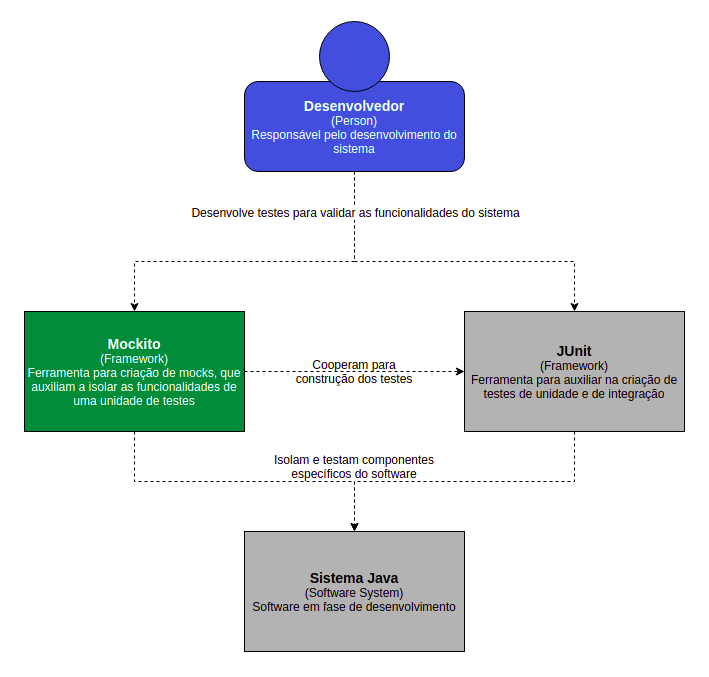
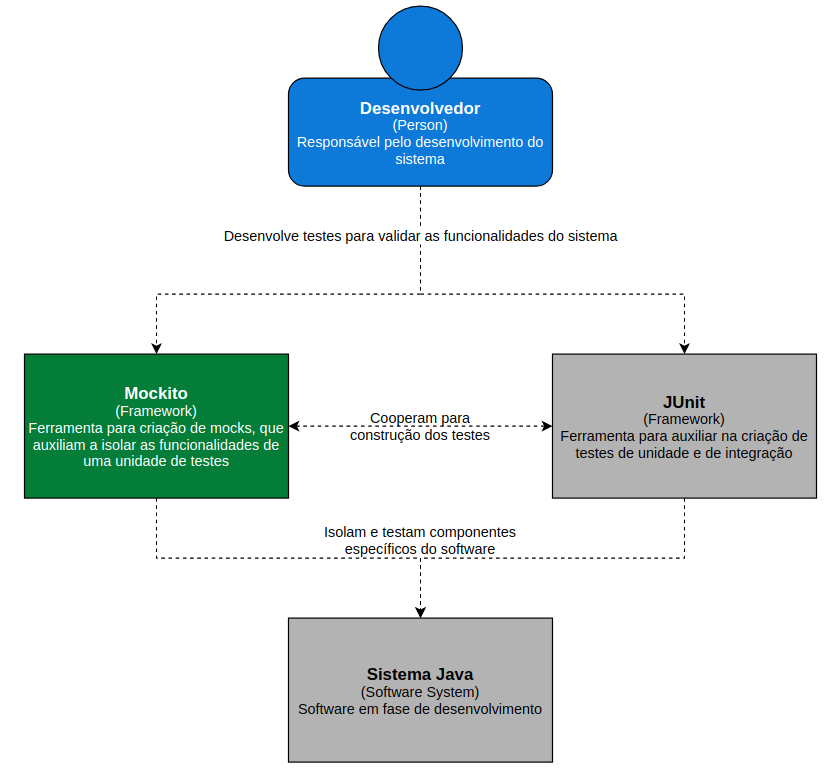
Construcao do diagrama de containers e complemento do contexto

diff --git a/content/posts/mockito.md b/content/posts/mockito.md
@@ -28,6 +28,12 @@ No desenvolvimento de softwares, os testes de unidade são fundamentais para ind
 Em testes de unidade, é desejável validar a funcionalidade de um objeto em específico. Porém, na maioria dos casos esses objetos possuem dependência de outros objetos externos, e é neste ponto que os mocks são fundamentais. Com os mocks, podemos simular o comportamento das dependências segundo a regra de negócio do sistema, e testar se a classe em questão tem a funcionalidade adequada ao contexto na qual está inserida.
 
 ## Contexto
-`Descrever o contexto no qual o mockito está inserido`
+Por ser um framework de testes em Java, o Mockito é direcionado para o uso de desenvolvedores de software que trabalham nesta linguagem. O Mockito atua em cooperação com o JUnit, que é um dos frameworks para a construção de testes automatizados mais frequentemente utilizado em projetos Java.
+
+Com o JUnit, o desenvolvedor consegue construir os testes que visam verificar o funcionamento de um determinado escopo (em geral, uma classe) e com o auxílio do Mockito é possível isolar o comportamento daquela classe de suas dependências, definindo de forma dinâmica como essas dependências externas se comportam em cenários de teste variados.
 
 ![Diagrama de Contexto](context.png)
+
+## Containers
+`Fazer descrição do diagrama de containers`
+![Diagrama de Containers](containers.png)
